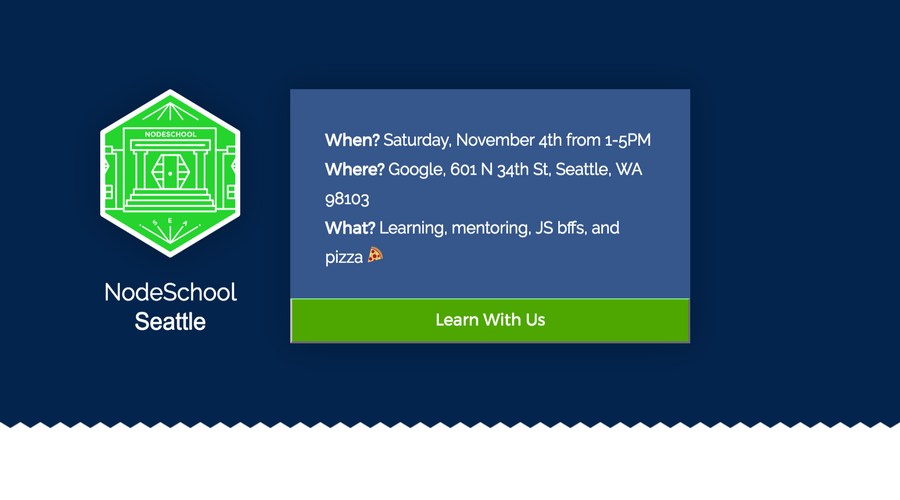
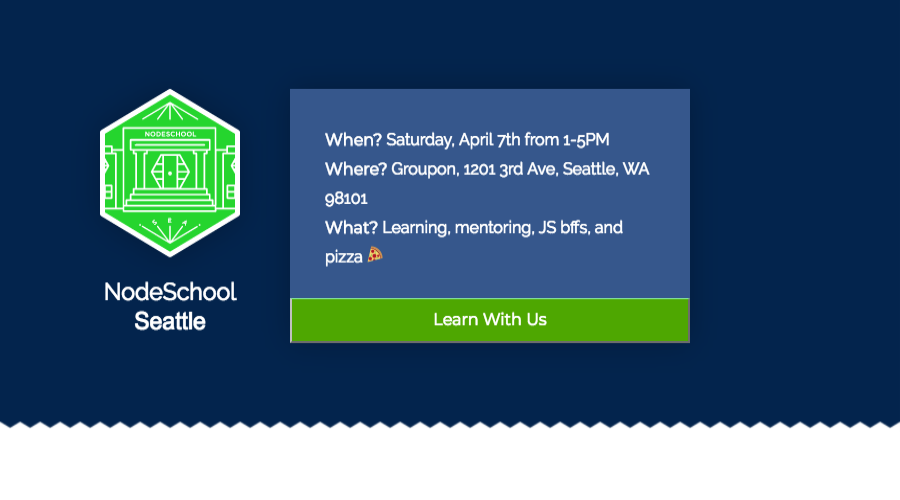
Adding April 2018 event

diff --git a/docs/index.html b/docs/index.html
@@ -7,12 +7,14 @@
     <meta property="og:type" content="website" />
     <meta property="og:description" content="NodeSchool Seattle is a meetup dedicated to helping people learn JavaScript." />
     <meta property="og:url" content="https://nodeschool.io/seattle/" />
+    <meta property="og:image" content="https://nodeschool.io/seattle/images/social.png?t=" />
     <!--Twitter-->
     <meta name="twitter:card" content="summary">
     <meta name="twitter:site" content="@nodeschool_sea">
     <meta name="twitter:creator" content="@nodeschool_sea">
     <meta name="twitter:title" content="NodeSchool Seattle">
     <meta name="twitter:description" content="NodeSchool Seattle is a meetup dedicated to helping people learn JavaScript.">
+    <meta name="twitter:image" content="https://nodeschool.io/seattle/images/social.png?t=">
     <title>NodeSchool Seattle</title>
     <link rel="stylesheet" href="./styles/index.css" />
   </head>
@@ -58,10 +60,10 @@
 
           <div class="next-event">
             <div class="next-event__description">
-              <h2 class="next-event__heading">Our Next Event is on December 2nd</h2>
+              <h2 class="next-event__heading">Our Next Event is on April 7th</h2>
               <ul class="next-event__info">
                 <li class="next-event__info__item">
-                  <strong class="strong--alt">When?</strong> Saturday, December 2nd from 1-5PM
+                  <strong class="strong--alt">When?</strong> Saturday, April 7th from 1-5PM
                 </li>
                 <li class="next-event__info__item">
                   <strong class="strong--alt">Where?</strong> Groupon, 1201 3rd Ave, Seattle, WA 98101 [<a href="http://maps.google.com/?q=1201+3rd+Ave,+Seattle,+WA+98101">map</a>]
@@ -72,9 +74,9 @@
               </ul>
             </div>
             <nav class="next-event__links">
-              <a class="next-event__links__learner next-event__links__link button" href="https:&#x2F;&#x2F;www.meetup.com&#x2F;Seattle-NodeSchool&#x2F;events&#x2F;245316852&#x2F;">
+              <a class="next-event__links__learner next-event__links__link button" href="https:&#x2F;&#x2F;www.meetup.com&#x2F;Seattle-NodeSchool&#x2F;events&#x2F;249132302&#x2F;">
                 Sign up as a Learner
-              </a><a class="next-event__links__mentor next-event__links__link button" href="https:&#x2F;&#x2F;github.com&#x2F;nodeschool&#x2F;seattle&#x2F;issues&#x2F;57">
+              </a><a class="next-event__links__mentor next-event__links__link button" href="https:&#x2F;&#x2F;github.com&#x2F;nodeschool&#x2F;seattle&#x2F;issues&#x2F;63">
                 Sign up as a Mentor
               </a>
             </nav>
@@ -88,7 +90,7 @@
           <h3 class="focused__subheading">NodeBots</h3>
           <p>Host Gaius Baltar will be leading a demonstration of how to make an LED blink with Node.</p>
           <p>Registration will be limited to twenty attendees.</p>
-          <p><a href="https:&#x2F;&#x2F;www.meetup.com&#x2F;Seattle-NodeSchool&#x2F;events&#x2F;245316852&#x2F;" class="button focused__register">Register now!</a></p>
+          <p><a href="https:&#x2F;&#x2F;www.meetup.com&#x2F;Seattle-NodeSchool&#x2F;events&#x2F;249132302&#x2F;" class="button focused__register">Register now!</a></p>
         </div>
       </section>
 
@@ -107,7 +109,7 @@
               <h4 class="faq__subheading">Who is the owner of the Seattle chapter?</h4>
             </dt>
             <dd class="faq__answer">
-              Seth Vincent (<a href="https://twitter.com/sethdvincent">@sethdvincent</a>) runs the Seattle chapter.
+              Wil Alvarez (<a href="https://twitter.com/satanas82">@satanas82</a>) runs the Seattle chapter.
             </dd>
 
 
@@ -149,7 +151,7 @@
                 <ul><li>Having also completed some elective workshoppers is a great bonus.</li></ul>
                 <li>Review the <a href="https://github.com/nodeschool/organizers/wiki/Event-Mentor-Best-Practices">Mentor Best Practices</a> wiki page.</li>
                 <li>Arrive 30 minutes early (12:30p) so we can get setup and have our mentor meeting.</li>
-                <li>Sign up on <a href="https:&#x2F;&#x2F;github.com&#x2F;nodeschool&#x2F;seattle&#x2F;issues&#x2F;57">the event's GitHub issue</a>!</li>
+                <li>Sign up on <a href="https:&#x2F;&#x2F;github.com&#x2F;nodeschool&#x2F;seattle&#x2F;issues&#x2F;63">the event's GitHub issue</a>!</li>
               </ul>
             </dd>
 
@@ -177,10 +179,7 @@
 
           <p>Organizers:</p>
           <ul>
-            <li>Seth Vincent (<a href="https://twitter.com/sethdvincent">@sethdvincent</a>)</li>
             <li>Wil Alvarez (<a href="https://twitter.com/satanas82">@satanas82</a>)</li>
-            <li>Justin Beckwith (<a href="https://twitter.com/JustinBeckwith">@JustinBeckwith</a>)</li>
-            <li>Charlie Crawford (<a href="https://twitter.com/">@</a>)</li>
           </ul>
 
           <p><strong>If you have questions or feedback about this Code of Conduct please contact

diff --git a/docs/social.html b/docs/social.html
@@ -23,10 +23,10 @@
             <div class="next-event__description">
               <ul class="next-event__info">
                 <li class="next-event__info__item">
-                  <strong class="strong--alt">When?</strong> Saturday, November 4th from 1-5PM
+                  <strong class="strong--alt">When?</strong> Saturday, April 7th from 1-5PM
                 </li>
                 <li class="next-event__info__item">
-                  <strong class="strong--alt">Where?</strong> Google, 601 N 34th St, Seattle, WA 98103
+                  <strong class="strong--alt">Where?</strong> Groupon, 1201 3rd Ave, Seattle, WA 98101
                 </li>
                 <li class="next-event__info__item">
                   <strong class="strong--alt">What?</strong> Learning, mentoring, JS bffs, and pizza <img src="./images/pizza-emoji.png" class="emoji" alt="pizza emoji">
